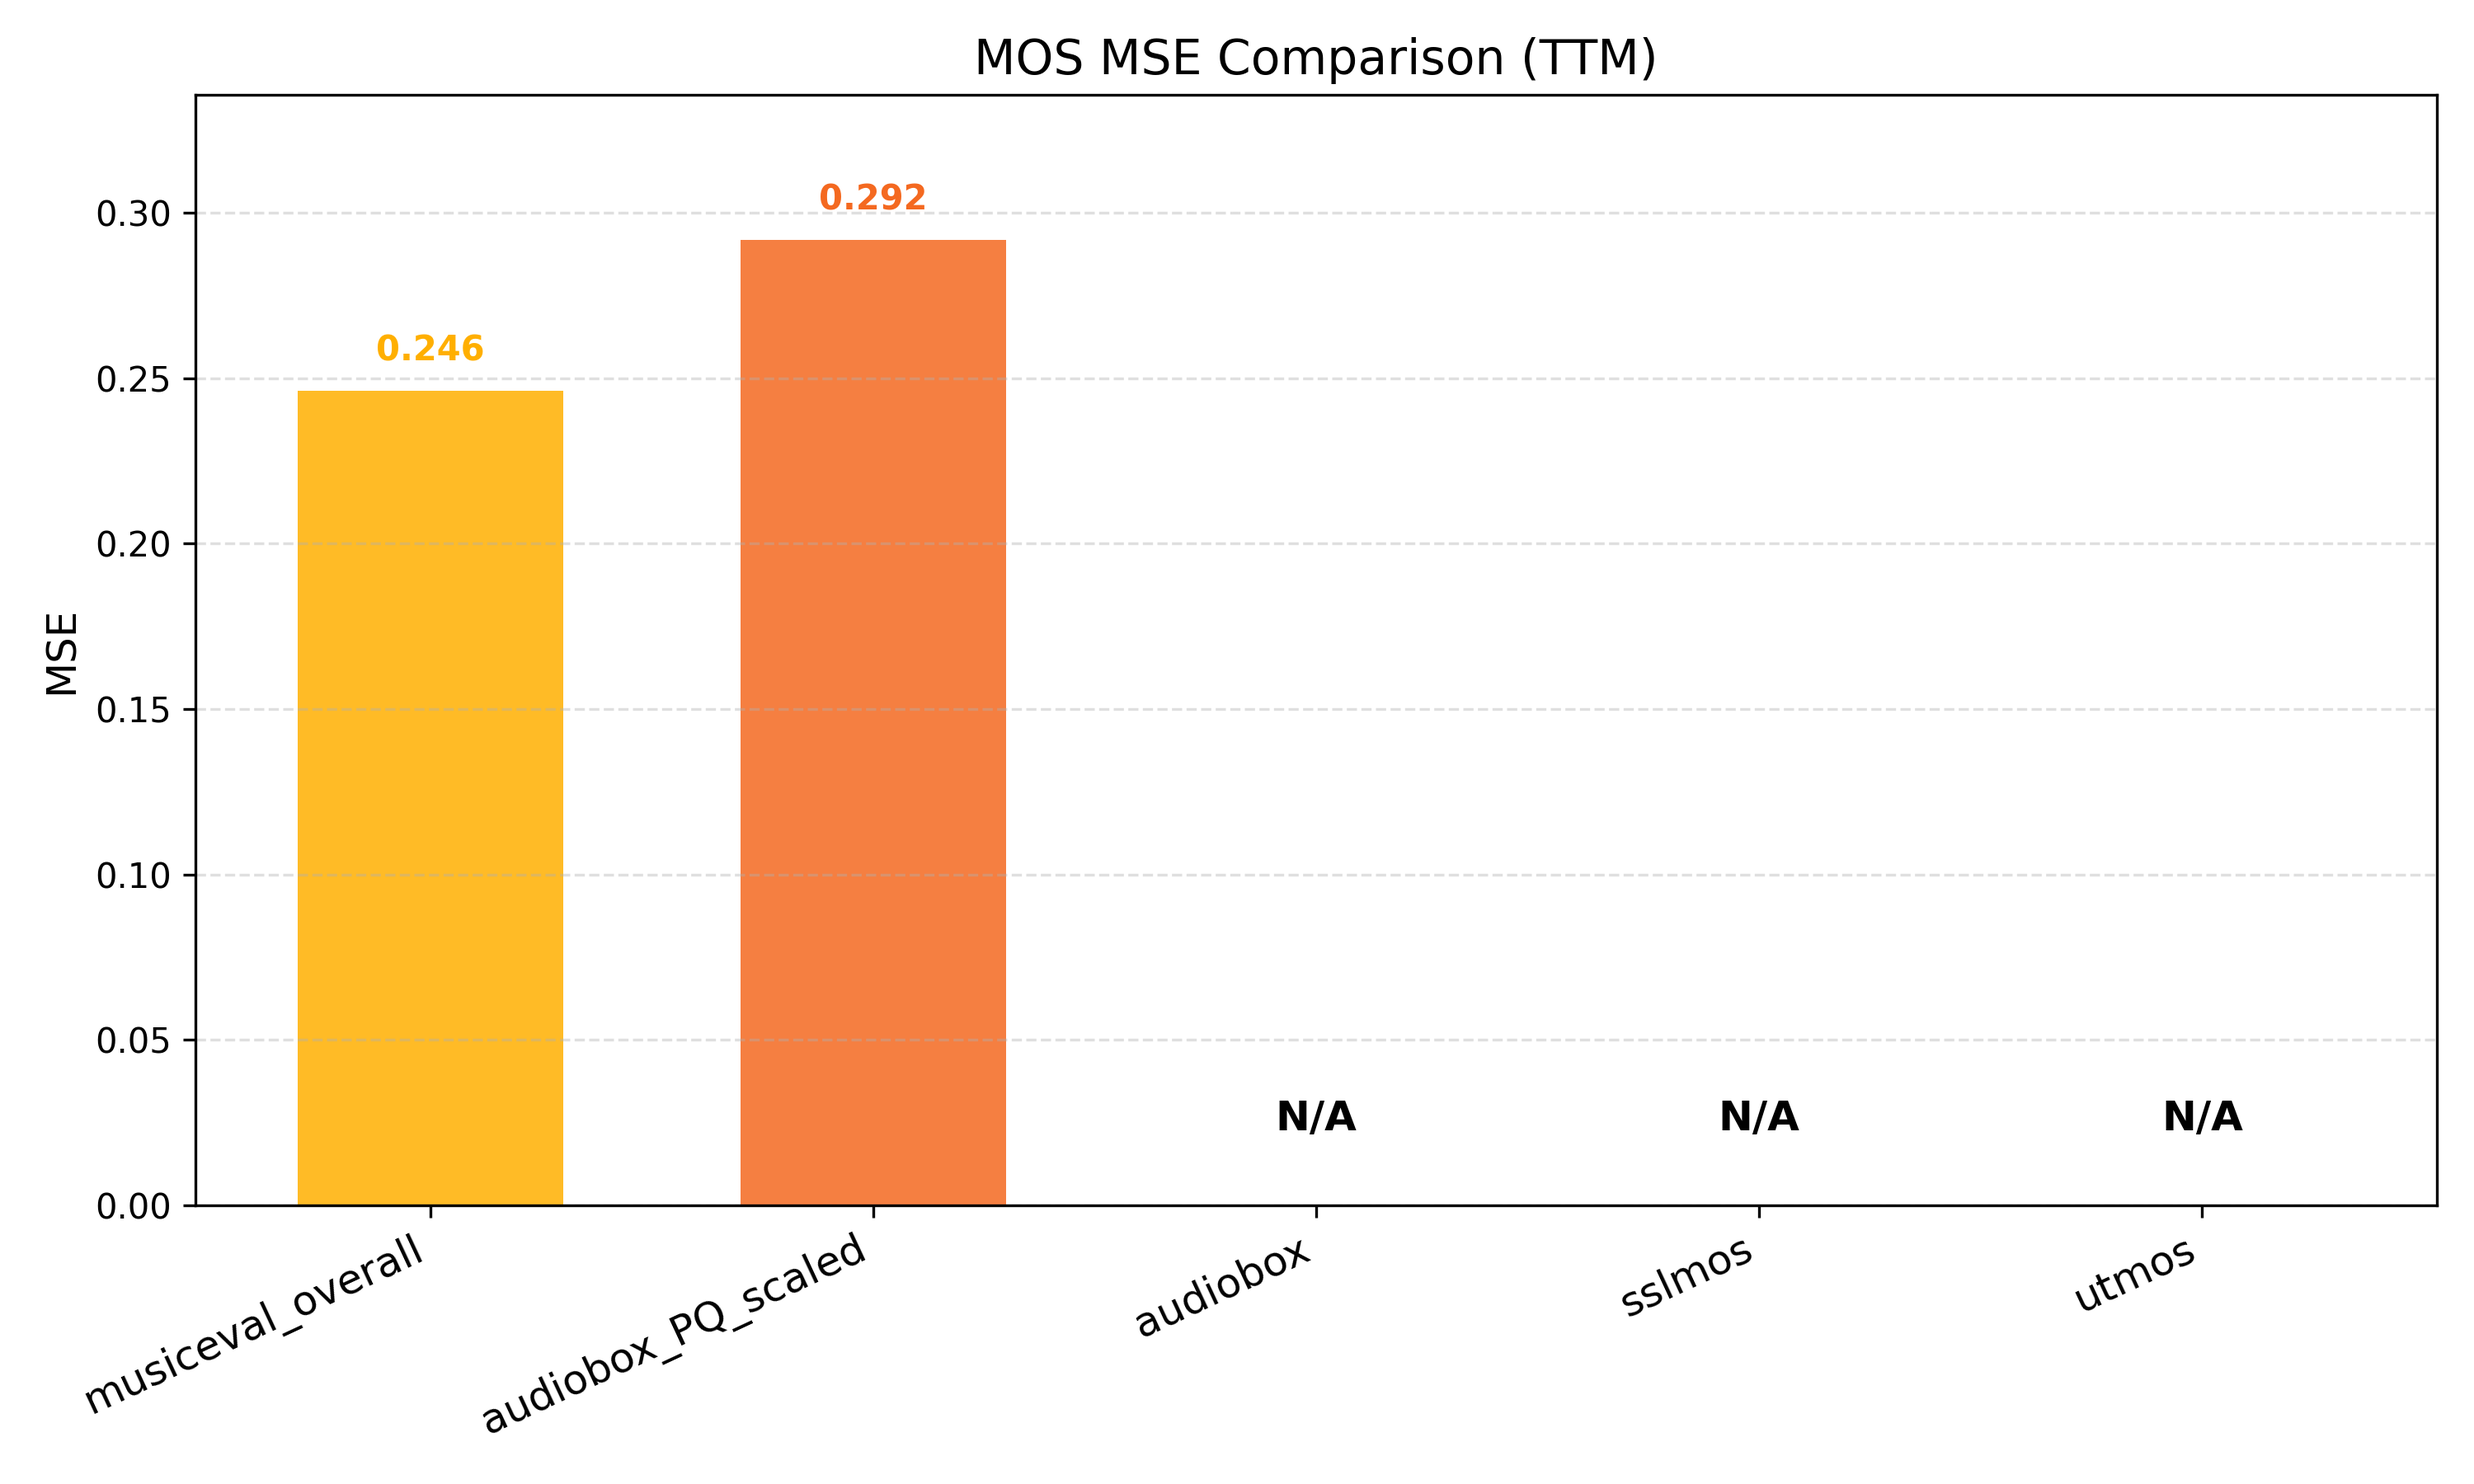
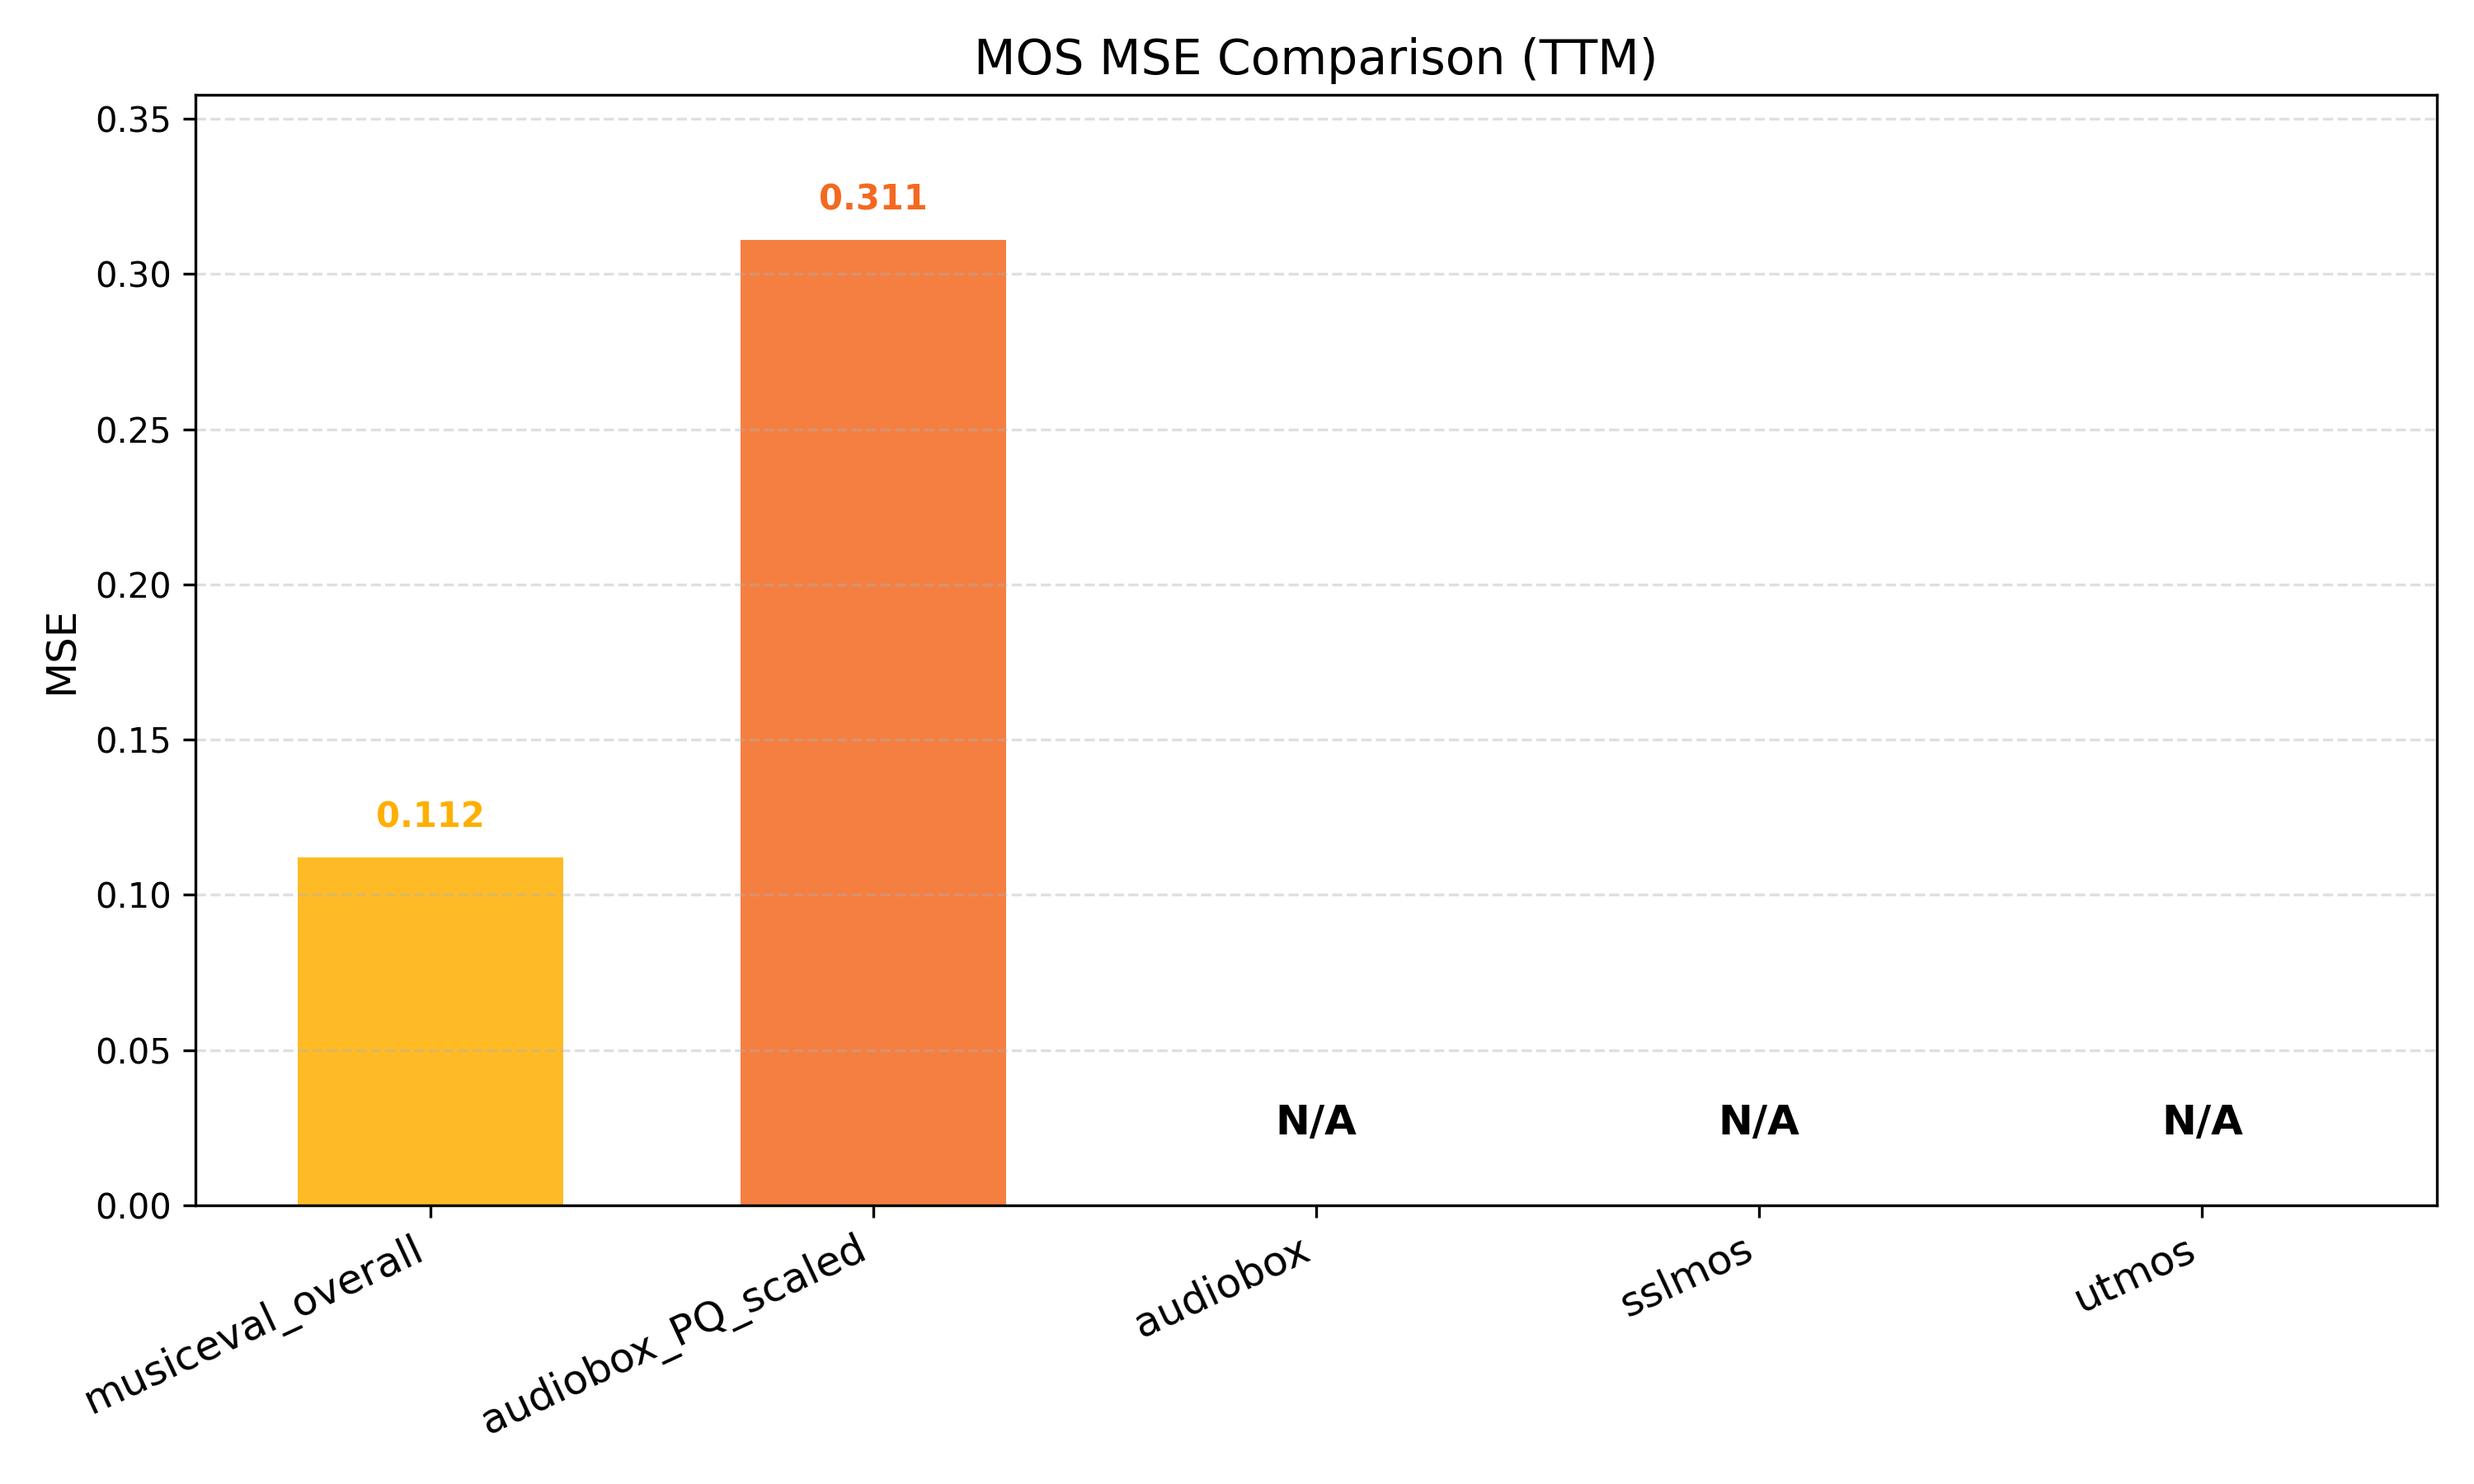
update musicgen

diff --git a/run_plot_ttm.py b/run_plot_ttm.py
@@ -9,17 +9,19 @@ import csv
 from msclap import CLAP
 
 # ========== 配置部分 ==========
-AUDIO_DIR = "InputData/ttm/wavs"
+AUDIO_DIR = "InputData/ttm_regenerate/wavs/"
 OUTPUT_JSON = "OutputData/ttm_eval/metrics_result.json"
 OUTPUT_RADAR = "OutputData/ttm_eval/ttm_radar.png"
 MOS_RESULT_PATH = "OutputData/ttm_eval/results.txt"
 REFERENCE_SET = "fma_pop"  # fad 参考集
 USE_GPU = True
-PROMPT_PATH = "InputData/ttm/prompt_info.txt"
+PROMPT_PATH = "InputData/ttm_regenerate/prompt_info.txt"
 
 
 # ====== Step 1. 计算 FAD ======
 def compute_fad_score(reference, audio_dir, timeout=600):
+    import re
+
     cmd = ["fadtk", "vggish", reference, audio_dir]
     print("Running command:", " ".join(cmd))
 
@@ -32,32 +34,58 @@ def compute_fad_score(reference, audio_dir, timeout=600):
         universal_newlines=True,
     )
 
-    fad_value = None
+    out_lines = []
     start_time = time.time()
-    last_line = ""
-    for line in iter(process.stdout.readline, ''):
-        line = line.strip()
+    # Read lines as they come (works with multi-threaded fadtk output)
+    while True:
+        line = process.stdout.readline()
+        if line == '' and process.poll() is not None:
+            break
         if line:
+            line = line.strip()
             print(line)
-            if "The FAD vggish score between" in last_line:
-                try:
-                    fad_value = float(line.split()[0])
-                    print(f"✅ Detected FAD score: {fad_value}")
-                except ValueError:
-                    pass
-            last_line = line
+            out_lines.append(line)
         if time.time() - start_time > timeout:
             process.kill()
             raise TimeoutError("FAD computation timed out.")
+
     process.stdout.close()
     process.wait()
 
+    text = "\n".join(out_lines)
+
+    # Try to find FAD value with context-aware regex (handles same-line or next-line number)
+    fad_value = None
+    # Common patterns: 'FAD vggish score', 'The FAD vggish score between ... is: 3.78',
+    # sometimes the number can be on the next line.
+    patterns = [
+        r'FAD.*?score.*?([+-]?\d*\.\d+(?:[eE][+-]?\d+)?)',
+        r'The FAD vggish score.*?([+-]?\d*\.\d+(?:[eE][+-]?\d+)?)',
+        r'is:\s*\n?\s*([+-]?\d*\.\d+(?:[eE][+-]?\d+)?)',
+    ]
+
+    for pat in patterns:
+        m = re.search(pat, text, re.IGNORECASE | re.DOTALL)
+        if m:
+            try:
+                fad_value = float(m.group(1))
+                break
+            except Exception:
+                fad_value = None
+
+    # Fallback: take the last floating-point number in output
+    if fad_value is None:
+        nums = re.findall(r'([+-]?\d*\.\d+(?:[eE][+-]?\d+)?)', text)
+        if nums:
+            fad_value = float(nums[-1])
+
     if fad_value is None:
         raise RuntimeError("❌ FAD score not found. Check fadtk output or model path.")
+
+    print(f"✅ Detected FAD score: {fad_value}")
     return fad_value
 
 
-# ====== Step 2. 计算 CLAP ======
 def load_prompts():
     prompts = {}
     with open(PROMPT_PATH, 'r', encoding='utf-8') as f:
@@ -67,6 +95,7 @@ def load_prompts():
     return prompts
 
 
+# ====== Step 2. 计算 CLAP ======
 def compute_clap_score(audio_dir):
     clap_model = CLAP(version='2023', use_cuda=USE_GPU)
     prompts = load_prompts()

diff --git a/Upstream/run_musicgen.py b/Upstream/run_musicgen.py
@@ -8,12 +8,13 @@ import torch
 import numpy as np
 from audiocraft.models import MusicGen
 from audiocraft.data.audio import audio_write
+import random
 
 
 def main():
     parser = argparse.ArgumentParser()
-    parser.add_argument('--prompt_file', type=str, default='InputData/ttm/prompt_info.txt', help='prompt_info file path')
-    parser.add_argument('--out_dir', type=str, default='InputData/ttm/wavs', help='output wav directory')
+    parser.add_argument('--prompt_file', type=str, default='InputData/ttm_regenerate/prompt_info.txt', help='prompt_info file path')
+    parser.add_argument('--out_dir', type=str, required = True, help='output wav directory')
     parser.add_argument('--model', type=str, default='small', help='MusicGen model size: small | medium | large | melody')
     parser.add_argument('--duration', type=float, default=30, help='duration of generated music in seconds')
     parser.add_argument('--device', type=str, default=None, help='device to run model on (e.g. "cuda" or "cpu")')
@@ -35,8 +36,16 @@ def main():
 
     # 加载模型
     model = MusicGen.get_pretrained(args.model)
+
+    # 改为确定性采样
+    seed = 42
+    torch.manual_seed(seed)
+    np.random.seed(seed)
+    random.seed(seed)
+    if torch.cuda.is_available():
+        torch.cuda.manual_seed_all(seed)
+
     model.set_generation_params(duration=args.duration)
-    # model = model.to(device)
 
     # 读取 prompt 文件
     with open(args.prompt_file, 'r', encoding='utf-8') as f:

diff --git a/Upstream/ttm_resample.py b/Upstream/ttm_resample.py
@@ -22,8 +22,8 @@ def resample_audio(in_path, out_path, target_sr=16000):
 
 def main():
     parser = argparse.ArgumentParser()
-    parser.add_argument("--input_dir", type=str, default = "InputData/ttm/wavs")
-    parser.add_argument("--output_dir", type=str, default = "InputData/ttm/wavs")
+    parser.add_argument("--input_dir", type=str, required= True)
+    parser.add_argument("--output_dir", type=str, required= True)
     parser.add_argument("--sr", type=int, default=16000, help="目标采样率")
     args = parser.parse_args()
 
